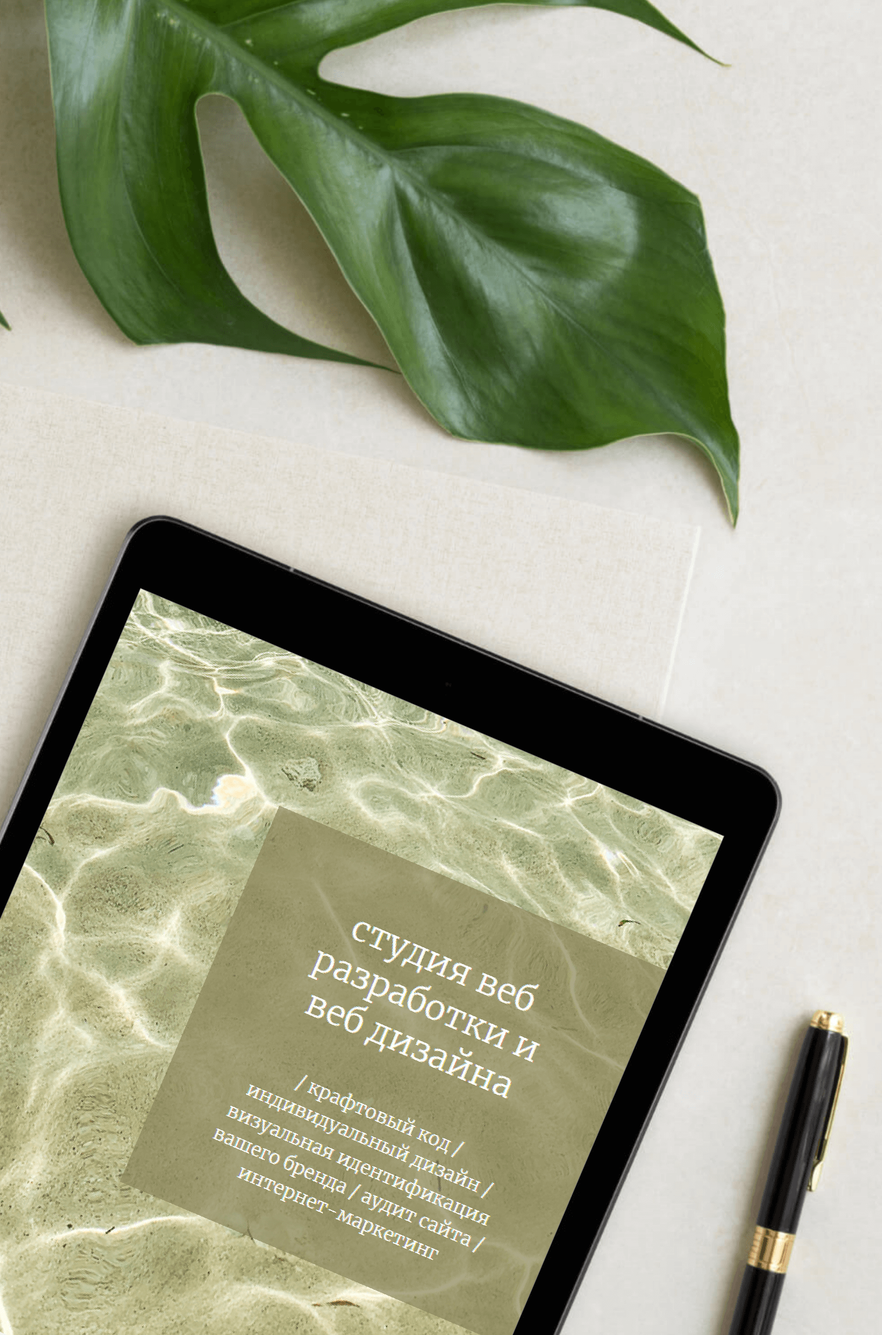
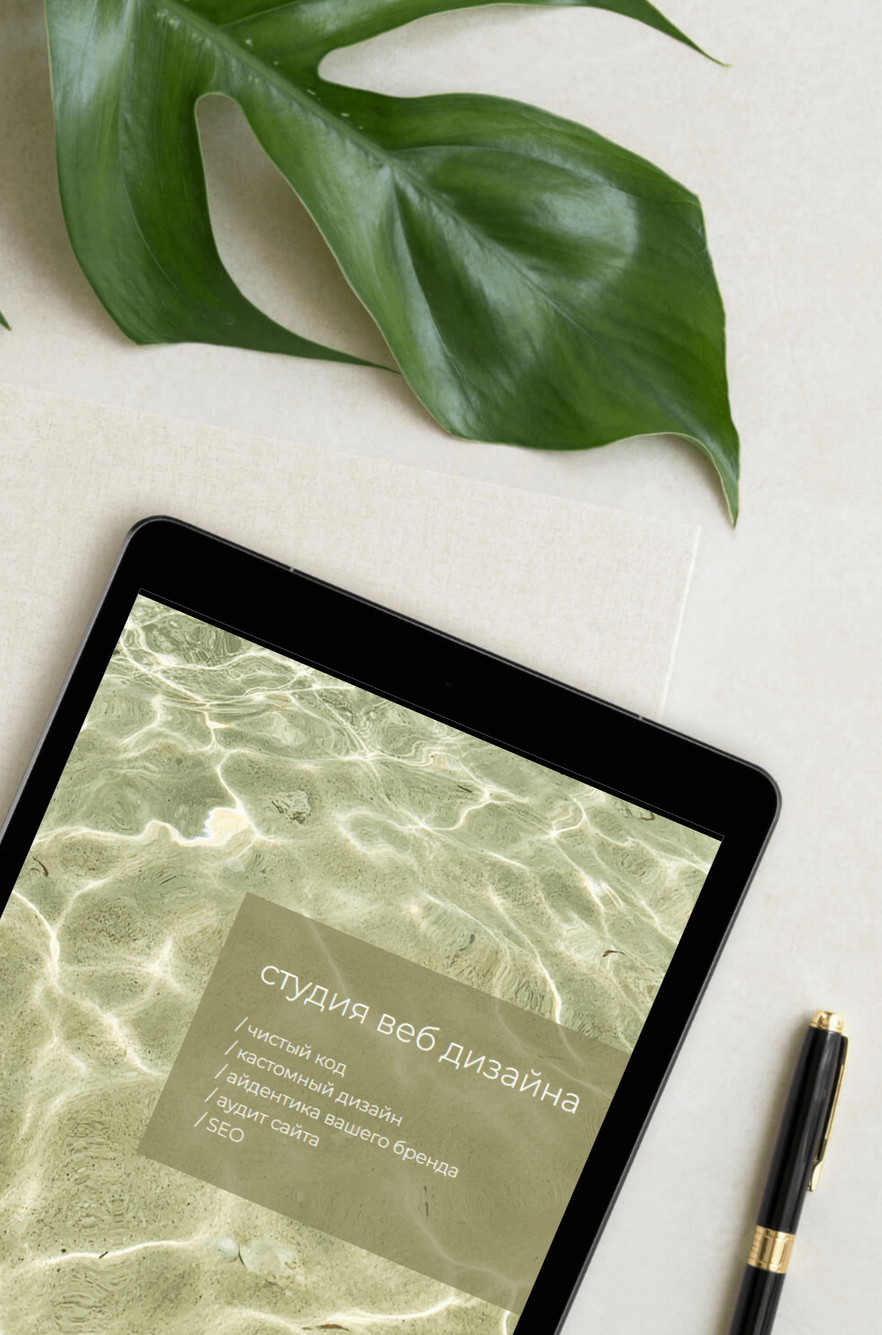
add new

Changed region(s): [[0.0, 0.4329, 0.8308, 1.0]]

diff --git a/home.html b/home.html
@@ -43,7 +43,7 @@ title: Klever Studio
   </section>
 
 
-<!------------About Section-------------
+<!------------About Section------------->
 
 <section class="bg-water padded tall-70 grid-middle-spaceAround center border">
     <div class="col-10-sm-12-middle center grid" data-aos="fade-up">
@@ -51,14 +51,13 @@ title: Klever Studio
 
         <div class="col-6_sm-12-middle padded bg-overlay bg-overlay-teal text-light">
             
-            <h2 class="lower padded"> Студия веб разработки и веб дизайна </h2>   
-            <p class="padded-t"> / крафтовый код / индивидуальный дизайн /
-                визуальная идентификация вашего бренда / аудит сайта / интернет-маркетинг
+            <h2 class="lower"> Студия веб дизайна </h2>   
+            <p class="padded-t left"> / чистый код <br>/ кастомный дизайн <br>/
+                айдентика вашего бренда <br>/ аудит сайта <br>/ SEO
             </p>
         </div>
     </div>
 </section> 
------------------>
 
 <section class="grid padded flex-flip-sm">
     <div class="col-6_sm-12 bg-white bg-plant-2 bg-image tall-60" data-aos="fade-up"> </div>
@@ -312,11 +311,12 @@ title: Klever Studio
 </section> 
 -------------------------------->
 
-<!------Сотрудничество-->
+<!------Сотрудничество--
 <section class="padded-2 bg-dark center text-light grid-middle-center mob-padded-0"> 
     <p class="margin-b-0 emphasis"> Узнать больше о <span class="featured">сотрудничестве</span> </p>
     <img src="/images/right-arrow.svg" class="right-arrow">
 </section>
+---------------------->
 
 <!-------Contacts -->
 <section class="padded hide-md"></section>
@@ -326,8 +326,8 @@ title: Klever Studio
     </div>
     <div class="col-1 hide-md"></div>
     <div class="col-4_md-5-middle_xs-12 padded-2 md-padded-1 sm-padded-b" data-aos="fade-up"> 
-        <h4 class="margin-b-0"><strong>Klever Studio ~ Лилия </strong> </h4>
-        <p class="margin-b-0"> Online / <a href="mailto:liliya.zapasnaya@gmail.com" class="padded-1"> Связаться по Email</a>  </p>
+        <h4><strong>Klever Studio ~ Лилия </strong> </h4>
+        <p> Online / <a href="mailto:liliya.zapasnaya@gmail.com" class="padded-1"> Связаться по Email</a>  </p>
         <p> Лично / Москва </p>
         <p> Рабочее время / Пн-Пт 9-18 </p>
         <p> В социальных сетях /<a href="https://www.instagram.com/leelyok/" target="_blank" class="padded-1">@leelyok</a>

diff --git a/_layouts/default.html b/_layouts/default.html
@@ -41,6 +41,10 @@
         <link rel="preconnect" href="https://fonts.googleapis.com">
         <link rel="preconnect" href="https://fonts.gstatic.com" crossorigin>
         <link href="https://fonts.googleapis.com/css2?family=Merriweather:ital,wght@0,300;0,400;0,700;0,900;1,300;1,400;1,700;1,900&display=swap" rel="stylesheet">
+
+        <link rel="preconnect" href="https://fonts.googleapis.com">
+        <link rel="preconnect" href="https://fonts.gstatic.com" crossorigin>
+        <link href="https://fonts.googleapis.com/css2?family=Montserrat:ital,wght@0,100;0,200;0,300;0,400;0,600;0,700;1,100;1,300;1,400&display=swap" rel="stylesheet">
         
 
 

diff --git a/style.css b/style.css
@@ -21,7 +21,7 @@ body {
     /*font-family: 'Gruppo', cursive;
     font-family: 'Jura', sans-serif;
     font-family: 'Open Sans Condensed', sans-serif;*/
-    font-family: 'Merriweather', serif;
+    font-family: 'Montserrat', sans-serif;
     color: #343838;
     background-color: #f7f4ef;
     overflow-x: hidden;
@@ -451,7 +451,7 @@ footer a:hover {
 nav.hover-links {
   position: absolute;
   transform: rotate(270deg);
-  left: -12rem;
+  left: -12.2rem;
   top: 16rem;
   z-index: 3;
 }
